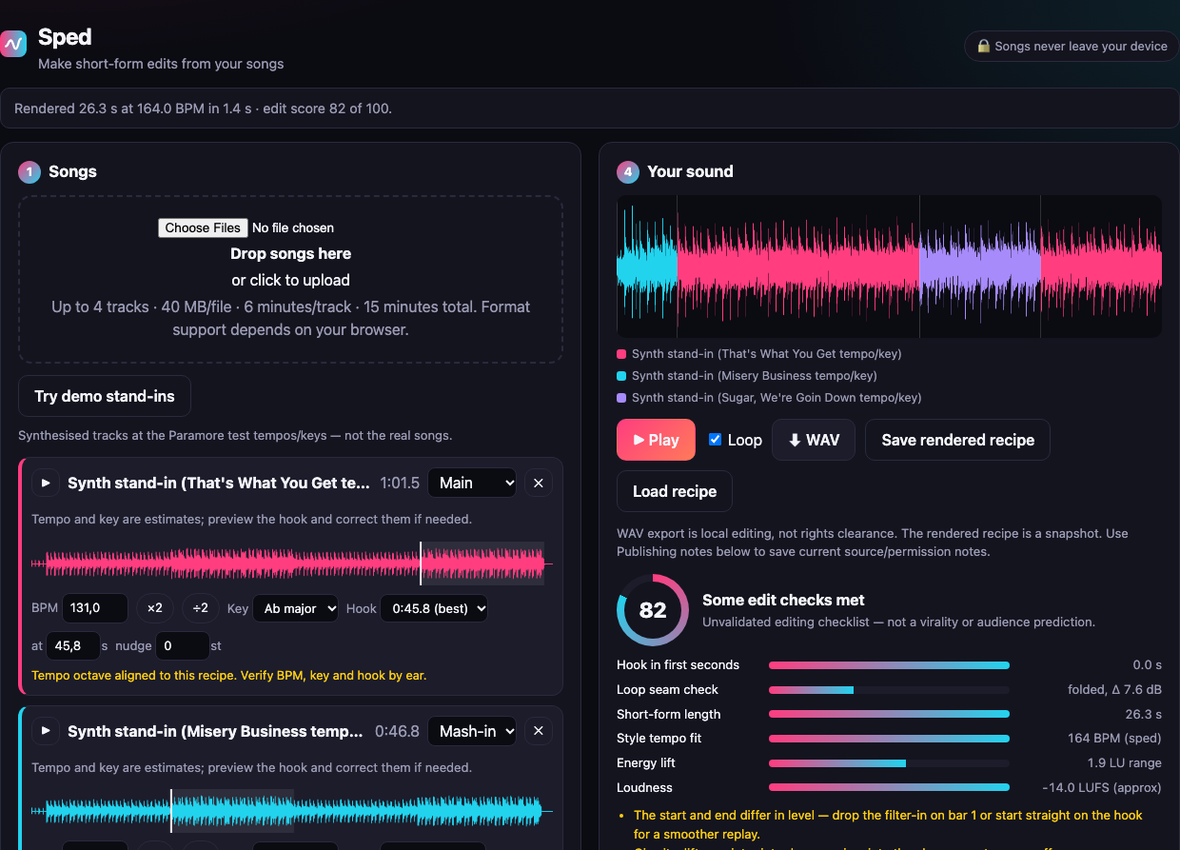
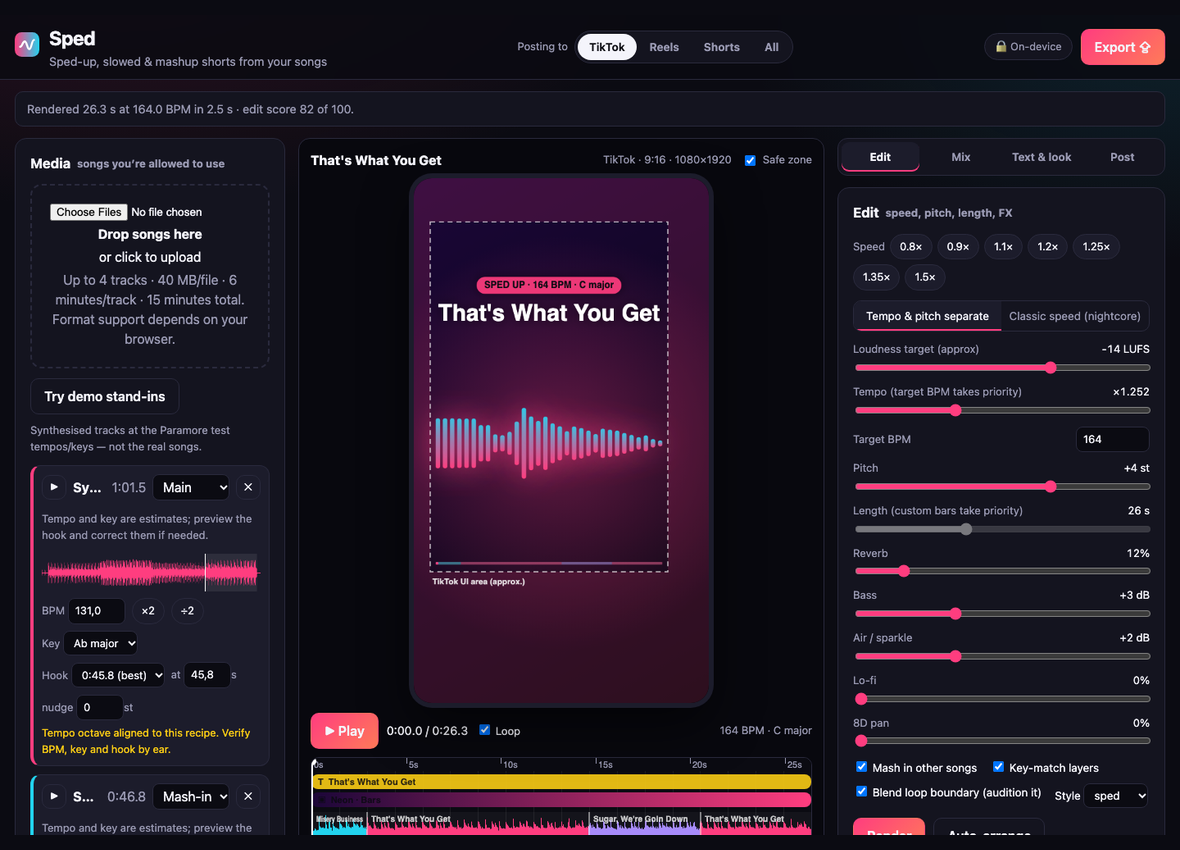
Sped 1.4 card: shorts studio with 9:16 MP4 export

diff --git a/index.html b/index.html
@@ -426,16 +426,16 @@
           </article>
           
           <article class="project-card" data-category="Software">
-            <img src="./assets/projects/sped.png" alt="Sped 1.3 browser remix studio using synthetic audio fixtures; editing tools do not supply music publishing rights" class="project-card-image" loading="lazy" decoding="async">
+            <img src="./assets/projects/sped.png" alt="Sped 1.4 shorts editor with a 9:16 preview, timeline and post panel, using synthetic audio fixtures" class="project-card-image" loading="lazy" decoding="async">
             <div class="project-content">
               <span class="project-category">Software</span>
               <h3 class="project-title">Sped</h3>
-              <p class="project-description">Sped (formerly Hookline) is a private browser remix studio for user-provided audio: independent tempo/pitch controls, whole-track sequencing and crossfades, auditioning and WAV export. It includes publishing notes for permission basis, license references, credits, restrictions and intended platforms; they are user declarations, not rights clearance. Commercial-song titles are not an editing gate. Fixes include accurate coupled-pitch readouts, exact manual source starts and clearer automatic-arrangement controls. Portable recipes, bounded audio jobs and worker recovery remain built in. No licensed song catalogue, stem separation or proven virality prediction.</p>
+              <p class="project-description">Sped (formerly Hookline) is a browser shorts studio for audio you upload: independent tempo/pitch, one-tap sped-up, slowed and mashup styles, and whole-track crossfades. Version 1.4 adds a CapCut-style editor (live 9:16 preview, multi-lane timeline, bottom toolbar on phones), beat-reactive visualizer, text and themes, per-platform safe zones and caption limits, and real-time 1080×1920 MP4 export with an optional silent version for adding the platform's licensed sound. Publishing notes are user declarations, not rights clearance; no licensed song catalogue, stem separation, auto-posting or virality prediction.</p>
               <div class="project-tags">
                 <span class="tag">Web Audio</span>
-                <span class="tag">private audio</span>
+                <span class="tag">9:16 video export</span>
+                <span class="tag">TikTok / Reels / Shorts</span>
                 <span class="tag">publishing notes</span>
-                <span class="tag">portable recipes</span>
                 <span class="tag">PWA</span>
               </div>
               <div class="project-links">
